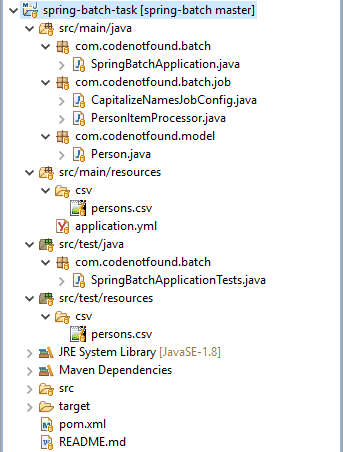
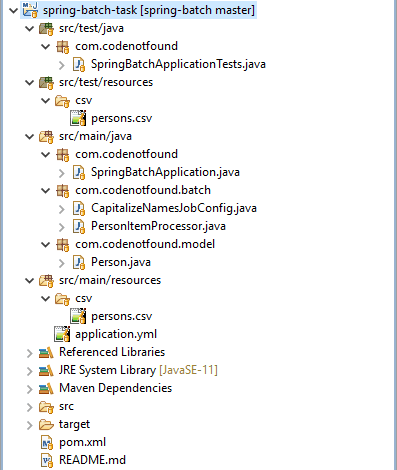
update post

Changed region(s): [[0.0, 0.0, 0.7872, 1.0], [0.9913, 0.0, 1.0, 1.0]]

diff --git a/_posts/spring-batch/2018-11-11-spring-batch-admin-example.md b/_posts/spring-batch/2018-11-11-spring-batch-admin-example.md
@@ -3,7 +3,7 @@ title: "Spring Batch Admin Example"
 permalink: /spring-batch-admin-example.html
 excerpt: "A detailed step-by-step tutorial on how to use a Spring Boot admin UI to manage Spring Batch jobs."
 date: 2018-11-11
-last_modified_at: 2018-11-11
+last_modified_at: 2019-05-30
 header:
   teaser: "assets/images/spring-batch/spring-batch-admin.png"
 categories: [Spring Batch]
@@ -30,7 +30,7 @@ If you want to learn more about Spring Batch - head on over to the [Spring Batch
 
 Spring Batch Admin provides a web-based user interface (UI) that allows you to manage [Spring Batch](https://spring.io/projects/spring-batch){:target="_blank"} jobs. The project, however, is **end-of-life since December 31, 2017**.
 
-[Spring Cloud Data Flow](https://cloud.spring.io/spring-cloud-dataflow/){:target="_blank"} is now the [recommended replacement](https://github.com/spring-projects/spring-batch-admin#note-this-project-is-being-moved-to-the-spring-attic-and-is-not-recommended-for-new-projects--spring-cloud-data-flow-is-the-recommended-replacement-for-managing-and-monitoring-spring-batch-jobs-going-forward--you-can-read-more-about-migrating-to-spring-cloud-data-flow-here){:target="_blank"} for managing and monitoring Spring Batch jobs. It is one of the [main Spring Projects](https://spring.io/projects){:target="_blank"}.
+[Spring Cloud Data Flow](https://spring.io/projects/spring-cloud-dataflow){:target="_blank"} is now the [recommended replacement](https://github.com/spring-projects/spring-batch-admin#note-this-project-is-being-moved-to-the-spring-attic-and-is-not-recommended-for-new-projects--spring-cloud-data-flow-is-the-recommended-replacement-for-managing-and-monitoring-spring-batch-jobs-going-forward--you-can-read-more-about-migrating-to-spring-cloud-data-flow-here){:target="_blank"} for managing and monitoring Spring Batch jobs.
 
 Let's show how you can configure Spring Cloud Data Flow to run a batch job.
 
@@ -41,11 +41,9 @@ We then start a Spring Cloud Data Flow server and configure the batch job. Using
 ## 2. General Project Overview
 
 We will use the following tools/frameworks:
-* _Spring Batch 3.0_
-* _Spring Boot 1.5_
-* _Maven 3.5_
-
-> [Spring Cloud Data Flow](https://github.com/spring-cloud/spring-cloud-dataflow){:target="_blank"} does not yet support Spring Boot 2.0. That is why this example uses Spring Boot 1.5 and Spring Batch 3.0.
+* Spring Batch 4.1
+* Spring Boot 2.1
+* Maven 3.6
 
 We will create two Maven projects.
 
@@ -72,7 +70,7 @@ Spring Cloud Task will also [associate the execution of a batch job with a task'
 We can now define a Spring Cloud Task as we will see in the next section.
 
 {% highlight java %}
-package com.codenotfound.batch;
+package com.codenotfound;
 
 import org.springframework.boot.SpringApplication;
 import org.springframework.boot.autoconfigure.SpringBootApplication;
@@ -88,7 +86,7 @@ public class SpringBatchApplication {
 }
 {% endhighlight %}
 
-Spring Cloud Task uses a datasource for storing the results of task executions. When running on Spring Cloud Data Flow we need to make sure that [common datasource settings are shared among both](http://docs.spring.io/spring-cloud-dataflow/docs/1.7.0.RELEASE/reference/htmlsingle/#_task_database_configuration){:target="_blank"}.
+Spring Cloud Task uses a datasource for storing the results of task executions. When running on Spring Cloud Data Flow we need to make sure that [common datasource settings are shared among both](https://docs.spring.io/spring-cloud-dataflow/docs/2.1.0.RELEASE/reference/htmlsingle/#_task_database_configuration){:target="_blank"}.
 
 By default Spring Cloud Data Flow uses an in-memory instance of [H2](http://www.h2database.com/html/main.html){:target="_blank"} with the following URL: <var>jdbc:h2:tcp://localhost:19092/mem:dataflow</var>.
 
@@ -105,12 +103,12 @@ To enable the above configuration changes we need to add extra dependencies in t
 
 The `spring-cloud-starter-task` starter includes the dependencies for testing Spring Boot applications. It imports libraries that include [JUnit](http://junit.org/junit4/){:target="_blank"}, [Hamcrest](http://hamcrest.org/JavaHamcrest/){:target="_blank"} and [Mockito](https://site.mockito.org/){:target="_blank"}.
 
-We also declare a dependency on `h2`. Spring Boot will take care of the [auto-configuration of the datasource](https://docs.spring.io/spring-boot/docs/1.5.7.RELEASE/reference/html/using-boot-auto-configuration.html){:target="_blank"} when it finds the H2 library on the classpath.
+We also declare a dependency on `h2`. Spring Boot will take care of the [auto-configuration of the datasource](https://docs.spring.io/spring-boot/docs/2.1.5.RELEASE/reference/html/using-boot-auto-configuration.html){:target="_blank"} when it finds the H2 library on the classpath.
 
 {% highlight xml %}
 <?xml version="1.0" encoding="UTF-8"?>
-<?xml version="1.0" encoding="UTF-8"?>
-<project xmlns="http://maven.apache.org/POM/4.0.0" xmlns:xsi="http://www.w3.org/2001/XMLSchema-instance"
+<project xmlns="http://maven.apache.org/POM/4.0.0"
+  xmlns:xsi="http://www.w3.org/2001/XMLSchema-instance"
   xsi:schemaLocation="http://maven.apache.org/POM/4.0.0 http://maven.apache.org/xsd/maven-4.0.0.xsd">
   <modelVersion>4.0.0</modelVersion>
 
@@ -121,20 +119,18 @@ We also declare a dependency on `h2`. Spring Boot will take care of the [auto-co
 
   <name>spring-batch-task</name>
   <description>Spring Batch Task Example</description>
-  <url>https://www.codenotfound.com/spring-batch-admin-example.html</url>
+  <url>https://codenotfound.com/spring-batch-admin-example.html</url>
 
   <parent>
     <groupId>org.springframework.boot</groupId>
     <artifactId>spring-boot-starter-parent</artifactId>
-    <version>1.5.17.RELEASE</version>
+    <version>2.1.5.RELEASE</version>
     <relativePath /> <!-- lookup parent from repository -->
   </parent>
 
   <properties>
-    <project.build.sourceEncoding>UTF-8</project.build.sourceEncoding>
-    <project.reporting.outputEncoding>UTF-8</project.reporting.outputEncoding>
-    <java.version>1.8</java.version>
-    <spring-cloud-starter-task.version>1.3.0.RELEASE</spring-cloud-starter-task.version>
+    <java.version>11</java.version>
+    <spring-cloud-starter-task.version>2.1.0.RELEASE</spring-cloud-starter-task.version>
   </properties>
 
   <dependencies>
@@ -147,13 +143,11 @@ We also declare a dependency on `h2`. Spring Boot will take care of the [auto-co
       <artifactId>spring-cloud-starter-task</artifactId>
       <version>${spring-cloud-starter-task.version}</version>
     </dependency>
-
     <dependency>
       <groupId>com.h2database</groupId>
       <artifactId>h2</artifactId>
       <scope>runtime</scope>
     </dependency>
-
     <dependency>
       <groupId>org.springframework.boot</groupId>
       <artifactId>spring-boot-starter-test</artifactId>
@@ -198,13 +192,14 @@ Create a new <var>spring-cloud-data-flow-server</var> Maven project.
 
 The `spring-boot-starter` starter in the <var>pom.xml</var> will import the needed Spring Boot dependencies.
 
-`spring-cloud-dataflow-server-local` takes care of the Spring Cloud Data Flow dependencies.
+`spring-cloud-starter-dataflow-server` takes care of the Spring Cloud Data Flow dependencies.
 
-> We also specify the <var>hibernate.version</var> as otherwise a `java.lang.reflect.InvocationTargetException is` thrown.
+> We also override the <var>h2.version</var> as otherwise [H2 will not auto-create the database](https://stackoverflow.com/a/55368174/4201470){:target="_blank"}.
 
 {% highlight xml %}
 <?xml version="1.0" encoding="UTF-8"?>
-<project xmlns="http://maven.apache.org/POM/4.0.0" xmlns:xsi="http://www.w3.org/2001/XMLSchema-instance"
+<project xmlns="http://maven.apache.org/POM/4.0.0"
+  xmlns:xsi="http://www.w3.org/2001/XMLSchema-instance"
   xsi:schemaLocation="http://maven.apache.org/POM/4.0.0 http://maven.apache.org/xsd/maven-4.0.0.xsd">
   <modelVersion>4.0.0</modelVersion>
 
@@ -215,33 +210,31 @@ The `spring-boot-starter` starter in the <var>pom.xml</var> will import the need
 
   <name>spring-cloud-data-flow-server</name>
   <description>Spring Cloud Data Server on Spring Boot</description>
-  <url>https://www.codenotfound.com/spring-batch-admin-example.html</url>
+  <url>https://codenotfound.com/spring-batch-admin-example.html</url>
 
   <parent>
     <groupId>org.springframework.boot</groupId>
     <artifactId>spring-boot-starter-parent</artifactId>
-    <version>1.5.17.RELEASE</version>
+    <version>2.1.5.RELEASE</version>
     <relativePath /> <!-- lookup parent from repository -->
   </parent>
 
   <properties>
-    <project.build.sourceEncoding>UTF-8</project.build.sourceEncoding>
-    <project.reporting.outputEncoding>UTF-8</project.reporting.outputEncoding>
-    <java.version>1.8</java.version>
-
-    <spring-cloud-dataflow.version>1.7.1.RELEASE</spring-cloud-dataflow.version>
-    <hibernate.version>5.3.7.FINAL</hibernate.version>
+    <java.version>11</java.version>
+    <spring-cloud-starter-dataflow-server.version>2.1.0.RELEASE</spring-cloud-starter-dataflow-server.version>
+    <h2.version>1.4.193</h2.version>
   </properties>
 
   <dependencies>
     <dependency>
-      <groupId>org.springframework.boot</groupId>
-      <artifactId>spring-boot-starter</artifactId>
+      <groupId>org.springframework.cloud</groupId>
+      <artifactId>spring-cloud-starter-dataflow-server</artifactId>
+      <version>${spring-cloud-starter-dataflow-server.version}</version>
     </dependency>
     <dependency>
-      <groupId>org.springframework.cloud</groupId>
-      <artifactId>spring-cloud-dataflow-server-local</artifactId>
-      <version>${spring-cloud-dataflow.version}</version>
+      <groupId>com.h2database</groupId>
+      <artifactId>h2</artifactId>
+      <version>${h2.version}</version>
     </dependency>
   </dependencies>
 
@@ -259,19 +252,24 @@ The `spring-boot-starter` starter in the <var>pom.xml</var> will import the need
 
 Add the `@EnableDataFlowServer` annotation to the Spring Boot main class. This activates a Spring Cloud Data Flow Server implementation.
 
+> We also disable the auto-configuration of the `CloudFoundryClient` by adding <var>exclude = {CloudFoundryDeployerAutoConfiguration.class}</var> to the `@SpringBootApplication` annotation.
+
 {% highlight java %}
-package com.codenotfound.batch;
+package com.codenotfound;
 
 import org.springframework.boot.SpringApplication;
 import org.springframework.boot.autoconfigure.SpringBootApplication;
 import org.springframework.cloud.dataflow.server.EnableDataFlowServer;
+import org.springframework.cloud.deployer.spi.cloudfoundry.CloudFoundryDeployerAutoConfiguration;
 
 @EnableDataFlowServer
-@SpringBootApplication
+@SpringBootApplication(
+    exclude = {CloudFoundryDeployerAutoConfiguration.class})
 public class SpringDataFlowServerApplication {
 
   public static void main(String[] args) {
-    SpringApplication.run(SpringDataFlowServerApplication.class, args);
+    SpringApplication.run(SpringDataFlowServerApplication.class,
+        args);
   }
 }
 {% endhighlight %}
@@ -287,7 +285,7 @@ mvn spring-boot:run
 The application will boot up.
 
 {% highlight plaintext %}
-____                              ____ _                __
+ ____                              ____ _                __
 / ___| _ __  _ __(_)_ __   __ _   / ___| | ___  _   _  __| |
 \___ \| '_ \| '__| | '_ \ / _` | | |   | |/ _ \| | | |/ _` |
 ___) | |_) | |  | | | | | (_| | | |___| | (_) | |_| | (_| |
@@ -300,67 +298,65 @@ ____ |_|    _          __|___/                 __________
 
 
 
-2018-11-11 11:38:49.831  INFO 7516 --- [           main] c.c.c.ConfigServicePropertySourceLocator : Fetching config from server at: http://localhost:8888
-2018-11-11 11:38:50.975  WARN 7516 --- [           main] c.c.c.ConfigServicePropertySourceLocator : Could not locate PropertySource: I/O error on GET request for "http://localhost:8888/spring-cloud-dataflow-server-local/default": Connection refused: connect; nested exception is java.net.ConnectException: Connection refused: connect
-2018-11-11 11:38:50.975  INFO 7516 --- [           main] c.c.b.SpringDataFlowServerApplication    : No active profile set, falling back to default profiles: default
-2018-11-11 11:38:52.224  INFO 7516 --- [           main] .s.d.r.c.RepositoryConfigurationDelegate : Multiple Spring Data modules found, entering strict repository configuration mode!
-2018-11-11 11:38:52.251  INFO 7516 --- [           main] .s.d.r.c.RepositoryConfigurationDelegate : Multiple Spring Data modules found, entering strict repository configuration mode!
-2018-11-11 11:38:52.382  INFO 7516 --- [           main] .s.d.r.c.RepositoryConfigurationDelegate : Multiple Spring Data modules found, entering strict repository configuration mode!
-2018-11-11 11:38:52.853  INFO 7516 --- [           main] o.s.cloud.context.scope.GenericScope     : BeanFactory id=4515019a-2b81-3169-9bfb-ef940568dc6f
-2018-11-11 11:38:53.970  INFO 7516 --- [           main] s.b.c.e.t.TomcatEmbeddedServletContainer : Tomcat initialized with port(s): 9393 (http)
-2018-11-11 11:38:54.001  INFO 7516 --- [           main] o.apache.catalina.core.StandardService   : Starting service [Tomcat]
-2018-11-11 11:38:54.001  INFO 7516 --- [           main] org.apache.catalina.core.StandardEngine  : Starting Servlet Engine: Apache Tomcat/8.5.34
-2018-11-11 11:38:54.131  INFO 7516 --- [ost-startStop-1] o.a.c.c.C.[Tomcat].[localhost].[/]       : Initializing Spring embedded WebApplicationContext
-2018-11-11 11:38:54.584  INFO 7516 --- [ost-startStop-1] o.s.c.d.s.config.web.WebConfiguration    : Start Embedded H2
-2018-11-11 11:38:54.584  INFO 7516 --- [ost-startStop-1] o.s.c.d.s.config.web.WebConfiguration    : Starting H2 Server with URL: jdbc:h2:tcp://localhost:19092/mem:dataflow
-2018-11-11 11:38:55.081  INFO 7516 --- [           main] com.zaxxer.hikari.HikariDataSource       : HikariPool-1 - Started.
-2018-11-11 11:38:55.184  INFO 7516 --- [           main] j.LocalContainerEntityManagerFactoryBean : Building JPA container EntityManagerFactory for persistence unit 'default'
-2018-11-11 11:38:55.213  INFO 7516 --- [           main] o.hibernate.jpa.internal.util.LogHelper  : HHH000204: Processing PersistenceUnitInfo [
+2019-05-31 08:37:59.034  INFO 15308 --- [           main] c.c.c.ConfigServicePropertySourceLocator : Fetching config from server at : http://localhost:8888
+2019-05-31 08:38:00.140  INFO 15308 --- [           main] c.c.c.ConfigServicePropertySourceLocator : Connect Timeout Exception on Url - http://localhost:8888. Will be trying the next url if available
+2019-05-31 08:38:00.141  WARN 15308 --- [           main] c.c.c.ConfigServicePropertySourceLocator : Could not locate PropertySource: I/O error on GET request for "http://localhost:8888/spring-cloud-dataflow-server/local": Connection refused: connect; nested exception is java.net.ConnectException: Connection refused: connect
+2019-05-31 08:38:00.148  WARN 15308 --- [           main] io.fabric8.kubernetes.client.Config      : Error reading service account token from: [/var/run/secrets/kubernetes.io/serviceaccount/token]. Ignoring.
+2019-05-31 08:38:00.157  INFO 15308 --- [           main] c.c.SpringDataFlowServerApplication      : The following profiles are active: local
+2019-05-31 08:38:01.293  INFO 15308 --- [           main] .s.d.r.c.RepositoryConfigurationDelegate : Multiple Spring Data modules found, entering strict repository configuration mode!
+2019-05-31 08:38:01.296  INFO 15308 --- [           main] .s.d.r.c.RepositoryConfigurationDelegate : Bootstrapping Spring Data repositories in DEFAULT mode.
+2019-05-31 08:38:01.322  INFO 15308 --- [           main] .s.d.r.c.RepositoryConfigurationDelegate : Finished Spring Data repository scanning in 14ms. Found 0 repository interfaces.
+2019-05-31 08:38:01.357  INFO 15308 --- [           main] .s.d.r.c.RepositoryConfigurationDelegate : Multiple Spring Data modules found, entering strict repository configuration mode!
+2019-05-31 08:38:01.358  INFO 15308 --- [           main] .s.d.r.c.RepositoryConfigurationDelegate : Bootstrapping Spring Data repositories in DEFAULT mode.
+2019-05-31 08:38:01.515  INFO 15308 --- [           main] .s.d.r.c.RepositoryConfigurationDelegate : Finished Spring Data repository scanning in 153ms. Found 1 repository interfaces.
+2019-05-31 08:38:01.674  INFO 15308 --- [           main] .s.d.r.c.RepositoryConfigurationDelegate : Multiple Spring Data modules found, entering strict repository configuration mode!
+2019-05-31 08:38:01.674  INFO 15308 --- [           main] .s.d.r.c.RepositoryConfigurationDelegate : Bootstrapping Spring Data repositories in DEFAULT mode.
+2019-05-31 08:38:01.730  INFO 15308 --- [           main] .s.d.r.c.RepositoryConfigurationDelegate : Finished Spring Data repository scanning in 55ms. Found 5 repository interfaces.
+2019-05-31 08:38:02.144  INFO 15308 --- [           main] o.s.cloud.context.scope.GenericScope     : BeanFactory id=8f97e30e-e057-3d61-b376-39100bb816e7
+2019-05-31 08:38:02.740  INFO 15308 --- [           main] o.s.b.w.embedded.tomcat.TomcatWebServer  : Tomcat initialized with port(s): 9393 (http)
+2019-05-31 08:38:02.784  INFO 15308 --- [           main] o.apache.catalina.core.StandardService   : Starting service [Tomcat]
+2019-05-31 08:38:02.785  INFO 15308 --- [           main] org.apache.catalina.core.StandardEngine  : Starting Servlet engine: [Apache Tomcat/9.0.19]
+2019-05-31 08:38:02.930  INFO 15308 --- [           main] o.a.c.c.C.[Tomcat].[localhost].[/]       : Initializing Spring embedded WebApplicationContext
+2019-05-31 08:38:03.630  INFO 15308 --- [           main] o.s.c.d.s.config.web.WebConfiguration    : Start Embedded H2
+2019-05-31 08:38:03.630  INFO 15308 --- [           main] o.s.c.d.s.config.web.WebConfiguration    : Starting H2 Server with URL: jdbc:h2:tcp://localhost:19092/mem:dataflow
+2019-05-31 08:38:03.947  INFO 15308 --- [           main] com.zaxxer.hikari.HikariDataSource       : HikariPool-1 - Starting...
+2019-05-31 08:38:04.053  INFO 15308 --- [           main] com.zaxxer.hikari.HikariDataSource       : HikariPool-1 - Start completed.
+2019-05-31 08:38:04.123  INFO 15308 --- [           main] o.f.c.internal.license.VersionPrinter    : Flyway Community Edition 5.2.4 by Boxfuse
+2019-05-31 08:38:04.138  INFO 15308 --- [           main] o.f.c.internal.database.DatabaseFactory  : Database: jdbc:h2:tcp://localhost:19092/mem:dataflow (H2 1.4)
+2019-05-31 08:38:04.227  INFO 15308 --- [           main] o.f.core.internal.command.DbValidate     : Successfully validated 1 migration (execution time 00:00.027s)
+2019-05-31 08:38:04.236  INFO 15308 --- [           main] o.f.c.i.s.JdbcTableSchemaHistory         : Creating Schema History table: "PUBLIC"."flyway_schema_history_dataflow"
+2019-05-31 08:38:04.257  INFO 15308 --- [           main] o.f.core.internal.command.DbMigrate      : Current version of schema "PUBLIC": << Empty Schema >>
+2019-05-31 08:38:04.260  INFO 15308 --- [           main] o.f.core.internal.command.DbMigrate      : Migrating schema "PUBLIC" to version 1 - INITIAL SETUP
+2019-05-31 08:38:04.309  INFO 15308 --- [           main] o.f.core.internal.command.DbMigrate      : Successfully applied 1 migration to schema "PUBLIC" (execution time 00:00.073s)
+2019-05-31 08:38:04.494  INFO 15308 --- [           main] o.hibernate.jpa.internal.util.LogHelper  : HHH000204: Processing PersistenceUnitInfo [
       name: default
       ...]
-2018-11-11 11:38:55.692  INFO 7516 --- [           main] org.hibernate.Version                    : HHH000412: Hibernate Core {5.3.7.Final}
-2018-11-11 11:38:55.694  INFO 7516 --- [           main] org.hibernate.cfg.Environment            : HHH000206: hibernate.properties not found
-2018-11-11 11:38:55.923  INFO 7516 --- [           main] o.hibernate.annotations.common.Version   : HCANN000001: Hibernate Commons Annotations {5.0.4.Final}
-2018-11-11 11:38:56.136  INFO 7516 --- [           main] org.hibernate.dialect.Dialect            : HHH000400: Using dialect: org.hibernate.dialect.H2Dialect
-2018-11-11 11:38:57.011  INFO 7516 --- [           main] j.LocalContainerEntityManagerFactoryBean : Initialized JPA EntityManagerFactory for persistence unit 'default'
-2018-11-11 11:38:57.664  INFO 7516 --- [           main] o.s.b.c.r.s.JobRepositoryFactoryBean     : No database type set, using meta data indicating: H2
-2018-11-11 11:38:57.841  INFO 7516 --- [           main] o.s.jdbc.datasource.init.ScriptUtils     : Executing SQL script from class path resource [org/springframework/batch/core/schema-h2.sql]
-2018-11-11 11:38:57.876  INFO 7516 --- [           main] o.s.jdbc.datasource.init.ScriptUtils     : Executed SQL script from class path resource [org/springframework/batch/core/schema-h2.sql] in 33 ms.
-2018-11-11 11:38:57.883  INFO 7516 --- [           main] o.s.jdbc.datasource.init.ScriptUtils     : Executing SQL script from class path resource [org/springframework/cloud/task/schema-h2.sql]
-2018-11-11 11:38:57.891  INFO 7516 --- [           main] o.s.jdbc.datasource.init.ScriptUtils     : Executed SQL script from class path resource [org/springframework/cloud/task/schema-h2.sql] in 8 ms.
-2018-11-11 11:38:58.610  INFO 7516 --- [           main] o.s.b.a.s.SimpleJobServiceFactoryBean    : No database type set, using meta data indicating: H2
-2018-11-11 11:38:59.151  INFO 7516 --- [           main] b.a.s.AuthenticationManagerConfiguration :
+2019-05-31 08:38:04.582  INFO 15308 --- [           main] org.hibernate.Version                    : HHH000412: Hibernate Core {5.3.10.Final}
+2019-05-31 08:38:04.585  INFO 15308 --- [           main] org.hibernate.cfg.Environment            : HHH000206: hibernate.properties not found
+2019-05-31 08:38:04.768  INFO 15308 --- [           main] o.hibernate.annotations.common.Version   : HCANN000001: Hibernate Commons Annotations {5.0.4.Final}
+2019-05-31 08:38:04.956  INFO 15308 --- [           main] org.hibernate.dialect.Dialect            : HHH000400: Using dialect: org.hibernate.dialect.H2Dialect
+2019-05-31 08:38:05.920  INFO 15308 --- [           main] j.LocalContainerEntityManagerFactoryBean : Initialized JPA EntityManagerFactory for persistence unit 'default'
+2019-05-31 08:38:05.941  WARN 15308 --- [           main] io.fabric8.kubernetes.client.Config      : Error reading service account token from: [/var/run/secrets/kubernetes.io/serviceaccount/token]. Ignoring.
+2019-05-31 08:38:05.943  WARN 15308 --- [           main] io.fabric8.kubernetes.client.Config      : Error reading service account token from: [/var/run/secrets/kubernetes.io/serviceaccount/token]. Ignoring.
+2019-05-31 08:38:05.981  WARN 15308 --- [           main] io.fabric8.kubernetes.client.Config      : Error reading service account token from: [/var/run/secrets/kubernetes.io/serviceaccount/token]. Ignoring.
+2019-05-31 08:38:05.983  WARN 15308 --- [           main] io.fabric8.kubernetes.client.Config      : Error reading service account token from: [/var/run/secrets/kubernetes.io/serviceaccount/token]. Ignoring.
+2019-05-31 08:38:05.996  WARN 15308 --- [           main] io.fabric8.kubernetes.client.Config      : Error reading service account token from: [/var/run/secrets/kubernetes.io/serviceaccount/token]. Ignoring.
+2019-05-31 08:38:05.997  WARN 15308 --- [           main] io.fabric8.kubernetes.client.Config      : Error reading service account token from: [/var/run/secrets/kubernetes.io/serviceaccount/token]. Ignoring.
+2019-05-31 08:38:07.085  INFO 15308 --- [           main] o.s.s.concurrent.ThreadPoolTaskExecutor  : Initializing ExecutorService 'applicationTaskExecutor'
+2019-05-31 08:38:07.166  WARN 15308 --- [           main] aWebConfiguration$JpaWebMvcConfiguration : spring.jpa.open-in-view is enabled by default. Therefore, database queries may be performed during view rendering. Explicitly configure spring.jpa.open-in-view to disable this warning
+2019-05-31 08:38:07.754  INFO 15308 --- [           main] .s.s.UserDetailsServiceAutoConfiguration :
 
-Using default security password: c99c3621-2859-4028-9173-d93b6697ea5a
+Using generated security password: 92f0b659-abe2-4aa1-86e5-b8ee0d132441
 
-2018-11-11 11:38:59.365  INFO 7516 --- [           main] o.s.c.d.s.r.s.DataflowRdbmsInitializer   : Adding dataflow schema classpath:schemas/h2/common.sql for h2 database
-2018-11-11 11:38:59.365  INFO 7516 --- [           main] o.s.c.d.s.r.s.DataflowRdbmsInitializer   : Adding dataflow schema classpath:schemas/h2/streams.sql for h2 database
-2018-11-11 11:38:59.365  INFO 7516 --- [           main] o.s.c.d.s.r.s.DataflowRdbmsInitializer   : Adding dataflow schema classpath:schemas/h2/tasks.sql for h2 database
-2018-11-11 11:38:59.365  INFO 7516 --- [           main] o.s.c.d.s.r.s.DataflowRdbmsInitializer   : Adding dataflow schema classpath:schemas/h2/deployment.sql for h2 database
-2018-11-11 11:38:59.365  INFO 7516 --- [           main] o.s.c.d.s.r.s.DataflowRdbmsInitializer   : Adding dataflow schema classpath:schemas/h2/jpa.sql for h2 database
-2018-11-11 11:38:59.371  INFO 7516 --- [           main] o.s.jdbc.datasource.init.ScriptUtils     : Executing SQL script from class path resource [schemas/h2/common.sql]
-2018-11-11 11:38:59.371  INFO 7516 --- [           main] o.s.jdbc.datasource.init.ScriptUtils     : Executed SQL script from class path resource [schemas/h2/common.sql] in 0 ms.
-2018-11-11 11:38:59.371  INFO 7516 --- [           main] o.s.jdbc.datasource.init.ScriptUtils     : Executing SQL script from class path resource [schemas/h2/streams.sql]
-2018-11-11 11:38:59.371  INFO 7516 --- [           main] o.s.jdbc.datasource.init.ScriptUtils     : Executed SQL script from class path resource [schemas/h2/streams.sql] in 0 ms.
-2018-11-11 11:38:59.371  INFO 7516 --- [           main] o.s.jdbc.datasource.init.ScriptUtils     : Executing SQL script from class path resource [schemas/h2/tasks.sql]
-2018-11-11 11:38:59.381  INFO 7516 --- [           main] o.s.jdbc.datasource.init.ScriptUtils     : Executed SQL script from class path resource [schemas/h2/tasks.sql] in 10 ms.
-2018-11-11 11:38:59.386  INFO 7516 --- [           main] o.s.jdbc.datasource.init.ScriptUtils     : Executing SQL script from class path resource [schemas/h2/deployment.sql]
-2018-11-11 11:38:59.386  INFO 7516 --- [           main] o.s.jdbc.datasource.init.ScriptUtils     : Executed SQL script from class path resource [schemas/h2/deployment.sql] in 0 ms.
-2018-11-11 11:38:59.386  INFO 7516 --- [           main] o.s.jdbc.datasource.init.ScriptUtils     : Executing SQL script from class path resource [schemas/h2/jpa.sql]
-2018-11-11 11:38:59.391  INFO 7516 --- [           main] o.s.jdbc.datasource.init.ScriptUtils     : Executed SQL script from class path resource [schemas/h2/jpa.sql] in 5 ms.
-2018-11-11 11:38:59.592  WARN 7516 --- [           main] c.n.c.sources.URLConfigurationSource     : No URLs will be polled as dynamic configuration sources.
-2018-11-11 11:38:59.592  INFO 7516 --- [           main] c.n.c.sources.URLConfigurationSource     : To enable URLs as dynamic configuration sources, define System property archaius.configurationSource.additionalUrls or make config.properties available on classpath.
-2018-11-11 11:38:59.602  WARN 7516 --- [           main] c.n.c.sources.URLConfigurationSource     : No URLs will be polled as dynamic configuration sources.
-2018-11-11 11:38:59.602  INFO 7516 --- [           main] c.n.c.sources.URLConfigurationSource     : To enable URLs as dynamic configuration sources, define System property archaius.configurationSource.additionalUrls or make config.properties available on classpath.
-2018-11-11 11:39:00.423  INFO 7516 --- [           main] o.s.l.c.support.AbstractContextSource    : Property 'userDn' not set - anonymous context will be used for read-write operations
-2018-11-11 11:39:00.683  INFO 7516 --- [           main] o.s.s.c.ThreadPoolTaskScheduler          : Initializing ExecutorService 'taskScheduler'
-2018-11-11 11:39:01.702  INFO 7516 --- [           main] o.s.c.d.s.c.support.MetricStore          : Metrics Collector URI = []
-2018-11-11 11:39:02.332  INFO 7516 --- [           main] ration$HystrixMetricsPollerConfiguration : Starting poller
-2018-11-11 11:39:02.402  INFO 7516 --- [           main] s.b.c.e.t.TomcatEmbeddedServletContainer : Tomcat started on port(s): 9393 (http)
-2018-11-11 11:39:02.412  INFO 7516 --- [           main] c.c.b.SpringDataFlowServerApplication    : Started SpringDataFlowServerApplication in 14.471 seconds (JVM running for 19.197)
+2019-05-31 08:38:08.323  INFO 15308 --- [           main] o.s.b.c.r.s.JobRepositoryFactoryBean     : No database type set, using meta data indicating: H2
+2019-05-31 08:38:08.363  INFO 15308 --- [           main] o.s.c.d.s.b.SimpleJobServiceFactoryBean  : No database type set, using meta data indicating: H2
+2019-05-31 08:38:08.801  INFO 15308 --- [           main] .s.c.DataFlowControllerAutoConfiguration : Skipper URI [http://localhost:7577/api]
+2019-05-31 08:38:09.086  INFO 15308 --- [           main] o.s.b.w.embedded.tomcat.TomcatWebServer  : Tomcat started on port(s): 9393 (http) with context path ''
+2019-05-31 08:38:09.091  INFO 15308 --- [           main] c.c.SpringDataFlowServerApplication      : Started SpringDataFlowServerApplication in 12.008 seconds (JVM running for 20.588)
+2019-05-31 08:38:09.138  INFO 15308 --- [           main] .s.c.d.s.s.LauncherInitializationService : Added 'Local' platform account 'default' into Task Launcher repository.
 {% endhighlight %}
 
-Open a web browser and navigate to [http://localhost:9393/dashboard](http://localhost:9393/dashboard){:target="_blank"}.
+Open a web browser and navigate to [http://localhost:9393/dashboard](http://localhost:9393/dashboard){:target="_blank" rel="nofollow"}.
 
 This will open the Spring Cloud Data Flow dashboard as shown below.
 
